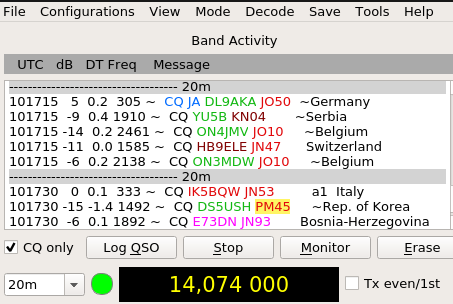
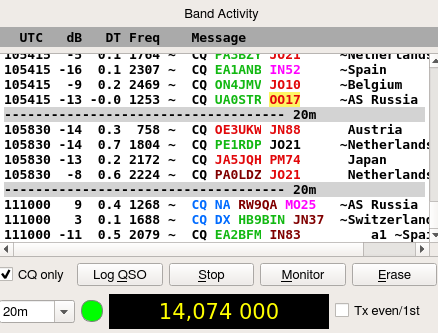
Help update

diff --git a/help/wsjt.html b/help/wsjt.html
@@ -94,7 +94,7 @@ With older versions of wsjt-x this causes unkonwn command error and then <b>nTxt
 </img>
 <img src="img/wsjt33.png" name="33" width="353" height="282">
 </img></p><p>
-If you are able to use <strong>color back</strong> feature you may want to change some Wsjt-x color settings and maybe check "CQ only" checbox at Main window.</p>
+If you are able to use <strong>color back</strong> feature you may want to change some Wsjt-x color settings and maybe check "CQ only" checbox at Main window. Selecting also font to some of "mono"+ "bold" ones from "Configuration/General/Decoded Text Font" could make a better view.</p>
 <p><img src="img/wsjt21.png" name="21" width="363" height="282">
 </img></p>
 Checking <b>“flw”</b> new part of monitor opens. This will make easier to follow a DX who does not stay on same frequency, but jumps around answering to callers.
